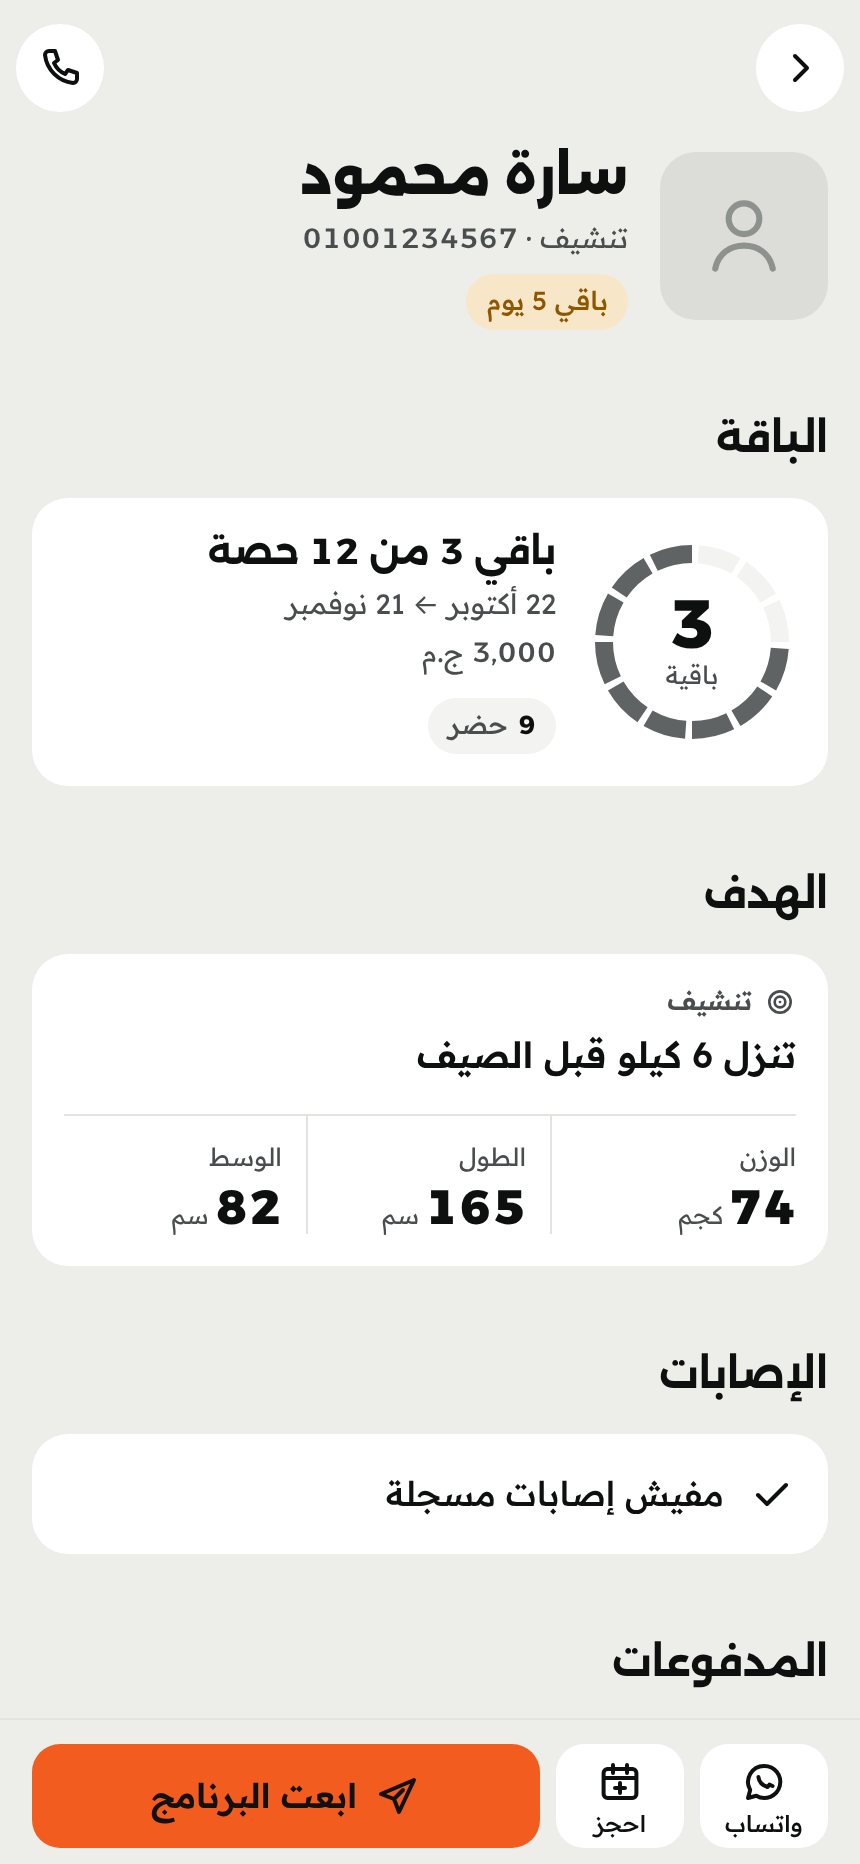
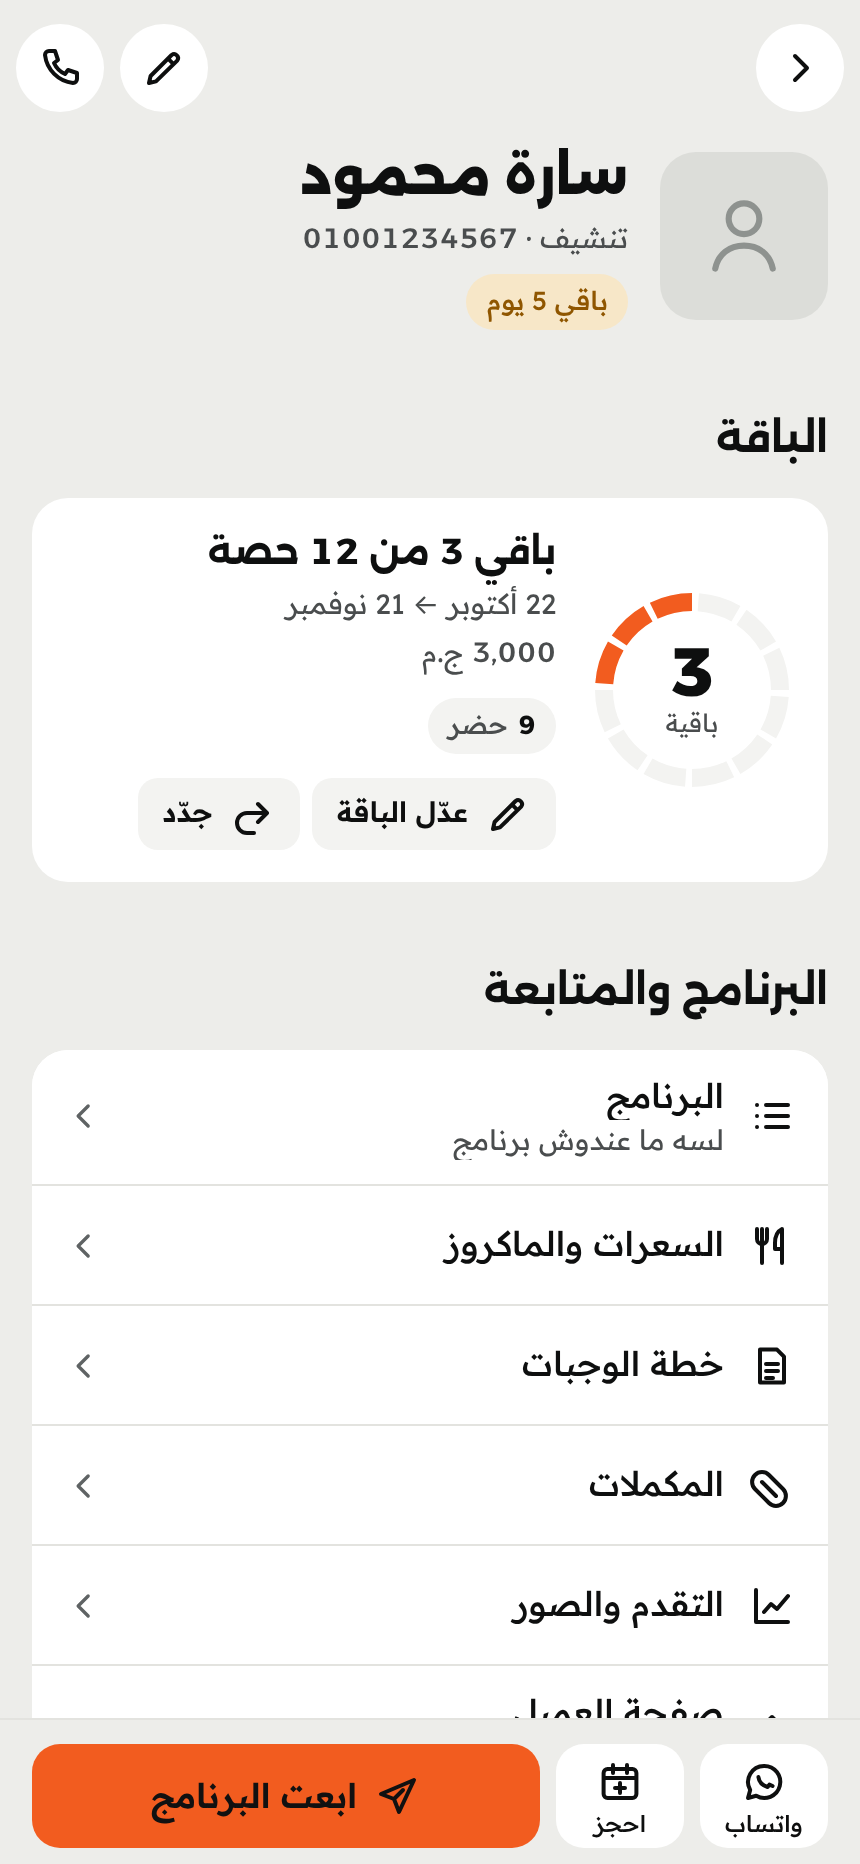
Add feature e2e scenarios and screenshots, More links, handover status and manual QA list
Claude-Session: https://claude.ai/code/session_01LzVKkmmL2o5iAM2hQ49VCY

diff --git a/e2e/features.spec.ts b/e2e/features.spec.ts
@@ -1,0 +1,93 @@
+import { expect, test, type Page } from '@playwright/test';
+import { openApp } from './helpers';
+
+/** Opens the demo client "سارة محمود" from the clients tab. */
+async function openSara(page: Page) {
+  await openApp(page);
+  await page.getByRole('link', { name: 'العملاء', exact: true }).click();
+  await page.getByRole('link', { name: /سارة محمود/ }).click();
+  await expect(page.getByRole('heading', { level: 1, name: 'سارة محمود' })).toBeVisible();
+}
+
+test('build a program from a template for a client, then run a session and save it', async ({ page }) => {
+  await openSara(page);
+  await page.getByRole('link', { name: /البرنامج/ }).first().click();
+  await expect(page.getByRole('heading', { level: 1, name: /برامج سارة محمود|البرامج/ })).toBeVisible();
+  await page.getByRole('button', { name: /فول بادي/ }).click();
+  await expect(page.getByTestId('save-status')).toBeVisible();
+  await expect(page.getByTestId('exercise-card').first()).toBeVisible();
+
+  await page.getByRole('button', { name: 'خيارات البرنامج' }).click();
+  await page.getByRole('button', { name: 'ابدأ حصة باليوم ده' }).click();
+  await expect(page.getByRole('button', { name: 'خلّصت السيت' })).toBeVisible();
+  await page.getByRole('button', { name: 'زوّد العدات' }).click();
+  await page.getByRole('button', { name: 'خلّصت السيت' }).click();
+  // rest overlay, then skip it
+  const skipRest = page.getByRole('button', { name: 'يلا السيت الجاية' });
+  if (await skipRest.isVisible()) await skipRest.click();
+  await page.getByRole('button', { name: 'خلّص الحصة' }).first().click();
+  await page.getByRole('dialog', { name: 'ملخص الحصة' }).getByRole('button', { name: 'احفظ الحصة' }).click();
+  await expect(page.getByRole('heading', { name: 'الحصة اتحفظت' })).toBeVisible();
+});
+
+test('calories calculator computes and saves for a client', async ({ page }) => {
+  await openSara(page);
+  await page.getByRole('link', { name: /السعرات والماكروز/ }).click();
+  await expect(page.getByRole('heading', { level: 1, name: 'حاسبة السعرات' })).toBeVisible();
+  await page.getByLabel('السن').fill('30');
+  await expect(page.getByText('سعر في اليوم').first()).toBeVisible();
+  await page.getByRole('button', { name: 'حفظ للعميل' }).click();
+  await expect(page.getByText(/اتحفظت سعرات/)).toBeVisible();
+});
+
+test('supplements catalog: add a product without any suggested dose', async ({ page }) => {
+  await openApp(page);
+  await page.getByRole('button', { name: 'المزيد والإعدادات' }).click();
+  await page.getByRole('link', { name: /المكملات والمنتجات/ }).click();
+  await page.getByRole('button', { name: 'منتج جديد' }).click();
+  const sheet = page.getByRole('dialog', { name: 'منتج جديد' });
+  await expect(sheet.getByLabel(/الجرعة/)).toHaveValue('');
+  await sheet.getByLabel('الاسم').fill('بروتين تجريبي');
+  await sheet.getByRole('button', { name: 'حفظ' }).click();
+  await expect(page.getByRole('button', { name: 'بروتين تجريبي من غير جرعة' })).toBeVisible();
+});
+
+test('progress: add a measurement and see it listed', async ({ page }) => {
+  await openSara(page);
+  await page.getByRole('link', { name: /التقدم والصور/ }).click();
+  await page.getByRole('button', { name: 'قياس جديد' }).first().click();
+  const sheet = page.getByRole('dialog', { name: 'قياس جديد' });
+  await sheet.getByLabel('الوزن (كجم)').fill('71.5');
+  await sheet.getByRole('button', { name: 'حفظ' }).click();
+  await expect(page.getByText(/71\.5 كجم/).first()).toBeVisible();
+});
+
+test('PDF builder makes a file for a client offline-capable, with share and download', async ({ page }) => {
+  test.setTimeout(90_000);
+  await openSara(page);
+  await page.getByRole('button', { name: 'ابعت البرنامج' }).click();
+  await expect(page.getByRole('heading', { level: 1, name: 'منشئ الـ PDF' })).toBeVisible();
+  await page.getByRole('button', { name: 'اعمل الملف' }).click();
+  await expect(page.getByText(/الملف جاهز: \d+ صفحة/)).toBeVisible({ timeout: 60_000 });
+  await expect(page.getByRole('button', { name: 'نزّل الملف' })).toBeVisible();
+});
+
+test('local backup: export an encrypted file', async ({ page }) => {
+  await openApp(page);
+  await page.getByRole('button', { name: 'المزيد والإعدادات' }).click();
+  await page.getByRole('link', { name: /الإعدادات/ }).first().click();
+  await page.getByRole('link', { name: /النسخ الاحتياطي/ }).click();
+  await page.getByRole('button', { name: 'اعمل ملف نسخة' }).click();
+  const sheet = page.getByRole('dialog', { name: 'اعمل ملف نسخة' });
+  await sheet.getByLabel('كلمة السر', { exact: true }).fill('secret-pass-1');
+  await sheet.getByLabel('اكتبها تاني').fill('secret-pass-1');
+  await sheet.getByRole('button', { name: 'اعمل ملف نسخة' }).click();
+  await expect(page.getByRole('button', { name: /الملف جاهز/ })).toBeVisible({ timeout: 30_000 });
+});
+
+test('income dashboard renders from demo payments', async ({ page }) => {
+  await openApp(page);
+  await page.getByRole('button', { name: 'المزيد والإعدادات' }).click();
+  await page.getByRole('link', { name: /^الدخل/ }).click();
+  await expect(page.getByRole('heading', { level: 1, name: 'الدخل' })).toBeVisible();
+});

diff --git a/e2e/screenshots-features.spec.ts b/e2e/screenshots-features.spec.ts
@@ -1,0 +1,74 @@
+import { expect, test, type Page } from '@playwright/test';
+import { openApp } from './helpers';
+
+const OUT = 'docs/screenshots/final';
+const DEVICES = [
+  { name: 'iphone-se', viewport: { width: 375, height: 667 } },
+  { name: 'iphone-pro-max', viewport: { width: 430, height: 932 } },
+] as const;
+
+async function shot(page: Page, name: string) {
+  await page.evaluate(() => document.fonts.ready);
+  await page.waitForTimeout(150);
+  await page.screenshot({ path: `${OUT}/${name}.png`, animations: 'disabled' });
+}
+
+for (const device of DEVICES) {
+  for (const scheme of ['light', 'dark'] as const) {
+    test(`feature screens ${device.name} ${scheme}`, async ({ page }) => {
+      test.setTimeout(90_000);
+      const tag = `${device.name}-${scheme}`;
+      await page.setViewportSize(device.viewport);
+      await page.emulateMedia({ colorScheme: scheme });
+      await openApp(page);
+      await page.getByRole('link', { name: 'العملاء', exact: true }).click();
+      await page.getByRole('link', { name: /سارة محمود/ }).click();
+      await expect(page.getByRole('heading', { level: 1, name: 'سارة محمود' })).toBeVisible();
+      await page.getByRole('heading', { name: 'البرنامج والمتابعة' }).scrollIntoViewIfNeeded();
+      await shot(page, `client-plan-${tag}`);
+
+      await page.getByRole('link', { name: /البرنامج/ }).first().click();
+      await shot(page, `programs-${tag}`);
+      await page.getByRole('button', { name: /بوش \/ بول \/ ليجز/ }).click();
+      await expect(page.getByTestId('exercise-card').first()).toBeVisible();
+      await shot(page, `builder-${tag}`);
+      await page.getByRole('button', { name: 'خيارات البرنامج' }).click();
+      await page.getByRole('button', { name: 'ابدأ حصة باليوم ده' }).click();
+      await expect(page.getByRole('button', { name: 'خلّصت السيت' })).toBeVisible();
+      await shot(page, `session-${tag}`);
+      await page.getByRole('button', { name: 'خلّصت السيت' }).click();
+      await shot(page, `session-rest-${tag}`);
+
+      await page.goto('/clients?standalone=1');
+      await page.getByRole('link', { name: /سارة محمود/ }).click();
+      await page.getByRole('link', { name: /السعرات والماكروز/ }).click();
+      await page.getByLabel('السن').fill('30');
+      await shot(page, `calculator-${tag}`);
+      await page.getByRole('link', { name: 'الوجبات' }).click();
+      await shot(page, `meals-${tag}`);
+      await page.getByRole('link', { name: 'المكملات', exact: true }).click();
+      await shot(page, `client-supplements-${tag}`);
+      await page.getByRole('link', { name: 'التقدم', exact: true }).click();
+      await shot(page, `progress-${tag}`);
+
+      await page.goto('/more/pdf?standalone=1');
+      await shot(page, `pdf-${tag}`);
+      await page.goto('/more/income?standalone=1');
+      await shot(page, `income-${tag}`);
+      await page.goto('/more/supplements?standalone=1');
+      await shot(page, `supplements-${tag}`);
+      await page.goto('/more/recipes?standalone=1');
+      await shot(page, `recipes-${tag}`);
+      await page.goto('/more/settings?standalone=1');
+      await shot(page, `settings-${tag}`);
+      await page.goto('/more/settings/backup?standalone=1');
+      await shot(page, `backup-${tag}`);
+      await page.goto('/more/settings/notifications?standalone=1');
+      await shot(page, `notifications-${tag}`);
+      await page.goto('/more/settings/formulas?standalone=1');
+      await shot(page, `formulas-${tag}`);
+      await page.goto('/more?standalone=1');
+      await shot(page, `more-${tag}`);
+    });
+  }
+}

diff --git a/src/features/more/MoreScreen.tsx b/src/features/more/MoreScreen.tsx
@@ -38,6 +38,11 @@ export function MoreScreen() {
             />
           ))}
         </ListSection>
+        <ListSection title={t('schedule.income.title')}>
+          <ListRow to="/more/income" leading={<Icon name="wallet" />} title={t('schedule.more.income')} subtitle={t('schedule.more.incomeHint')} />
+          <ListRow to="/more/whatsapp-templates" leading={<Icon name="chat" />} title={t('schedule.more.whatsapp')} subtitle={t('schedule.more.whatsappHint')} />
+          <ListRow to="/more/recipes" leading={<Icon name="utensils" />} title={t('nutrition.hub.recipesTitle')} subtitle={t('nutrition.hub.recipesHint')} />
+        </ListSection>
         <ListSection
           title={t('screens.more.storage')}
           footer={persisted ? t('screens.more.persisted') : t('screens.more.notPersisted')}

diff --git a/docs/MANUAL_QA.md b/docs/MANUAL_QA.md
@@ -106,3 +106,15 @@
 - [ ] إلغاء الترخيص من اللوحة: التطبيق بيقفل بعد ما يفتح وهو على نت، ومن غير نت بيفضل شغال
 - [ ] ترخيص بمدة: رجّع تاريخ الآيفون يومين لورا → التطبيق يقفل برسالة الساعة؛ رجّعه تلقائي → يفتح تاني
 - [ ] مسح الأيقونة وتثبيتها تاني بيعمل رقم جهاز جديد (والكود القديم يترفض: "معمول لجهاز تاني")
+
+## إضافات الجلسة الأخيرة (لازم تتجرب على آيفون حقيقي)
+
+- [ ] وضع الحصة: ابدأ حصة من برنامج عميل، اقفل التطبيق في نص الحصة وافتحه تاني: لازم يكمّل من نفس السيت ويطلع «كمّلنا من آخر سيت».
+- [ ] مؤقت الراحة يعدّ صح لما الشاشة تتقفل وترجع.
+- [ ] منشئ الـ PDF: اعمل ملف لعميل فيه برنامج كامل ووجبات ومكملات وصور تقدم، وابعته على واتساب من زرار «ابعت». افتحه على آيفون تاني وأندرويد.
+- [ ] منشئ الـ PDF بـ 50 تمرين: الذاكرة ما توقّعش Safari.
+- [ ] النسخ الاحتياطي: اعمل ملف مشفّر، احفظه في Files، امسح التطبيق من الشاشة وثبّته تاني، واسترجع الملف.
+- [ ] النسخة السحابية (بعد رفع الـ Worker): شغّلها بكلمة سر، استنى أول رفع، واسترجعها على آيفون تاني.
+- [ ] الإشعارات (بعد رفع الـ Worker ومفاتيح VAPID): شغّلها من الإعدادات، احجز حصة بعد ساعة، ولازم يوصل إشعار قبلها بالمدة المختارة.
+- [ ] صفحة العميل: اعمل لينك، افتحه من موبايل تاني، سجّل متابعة بوزن وصورة، وتأكد إنها وصلت في «التقدم» عند المدرب.
+- [ ] إضافة صور (المكملات، الوصفات، التقدم) من الكاميرا ومن الألبوم.

diff --git a/docs/PLAN.md b/docs/PLAN.md
@@ -138,3 +138,17 @@
 - فحص `npm run check:words` بيوقّف البناء لو ظهرت كلمة ممنوعة في النصوص أو بيانات التمارين.
 - تعريب آلي لأسماء الـ 876 تمرين في `data-src/exercise-names.ar.json` — **كلها محتاجة مراجعة مدرب**.
 - ثلاث سكيلز للمشروع في `.claude/skills/`.
+
+## الحالة عند التسليم (16 نوفمبر 2026)
+
+اتبنى: كل الشاشات الـ 12 والمزايا الإضافية: العملاء والباقات والمدفوعات ولوحة الدخل، المواعيد وملفات التقويم،
+مكتبة التمارين وخريطة العضلات والمجسم، البرامج ووضع الحصة، الحاسبة وخطة الوجبات وكتيّب الوصفات، المكملات،
+التقدم بالرسم وصور قبل وبعد والأرقام القياسية، منشئ الـ PDF، النسخ الاحتياطي المحلي والسحابي، الإشعارات،
+صفحة العميل والمتابعة الأسبوعية، قوالب واتساب، وإعدادات المعادلات.
+
+لسه ما اتعملش (متأجل بقصد):
+- مساعد الـ AI والـ webhooks (المرحلة 10): الإضافتين اختياريتين ومطفيين افتراضياً، وما اتبنوش.
+- صورة المجسم جنب كل تمرين في الـ PDF: الملف بيحط صورة التمرين بس دلوقتي.
+- رفع الـ Worker على Cloudflare فعلياً، ومفتاح الترخيص العام، ومفاتيح VAPID: خطوات يدوية في docs/ACTIVATION.md و docs/CLOUD.md.
+- تشغيل سكربت Blender لعمل المجسم الحقيقي (docs/3D_MODEL.md).
+- مراجعة مدرب حقيقي لأسماء التمارين المعرّبة ونتايج الحاسبة.
